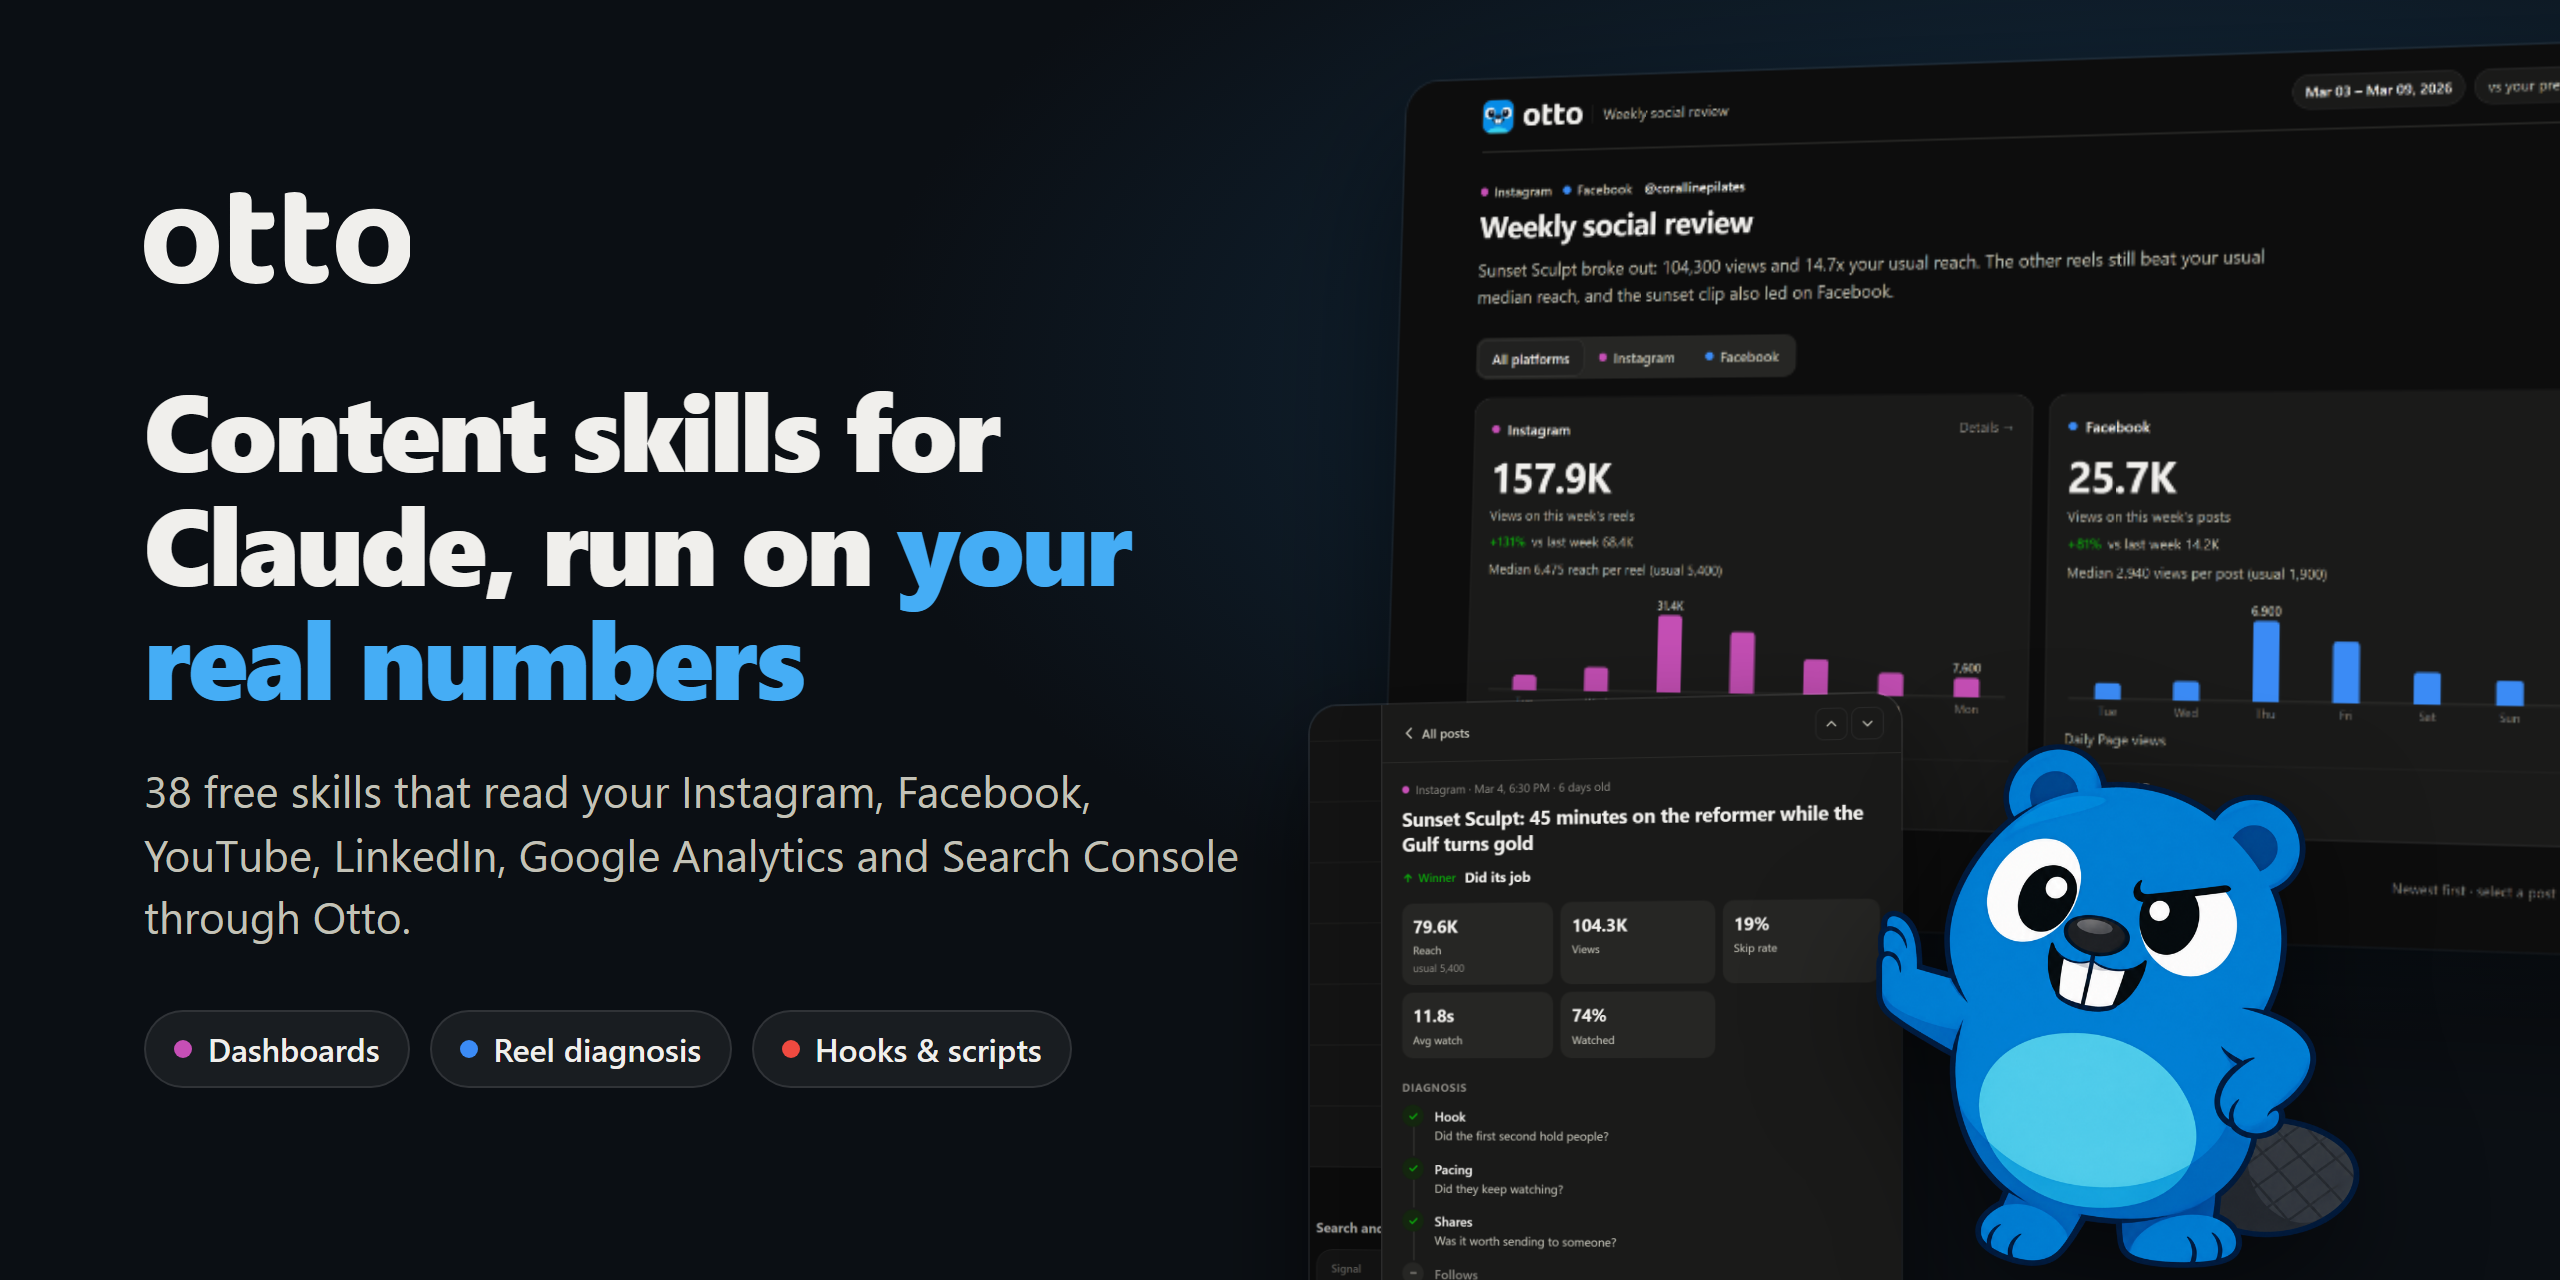
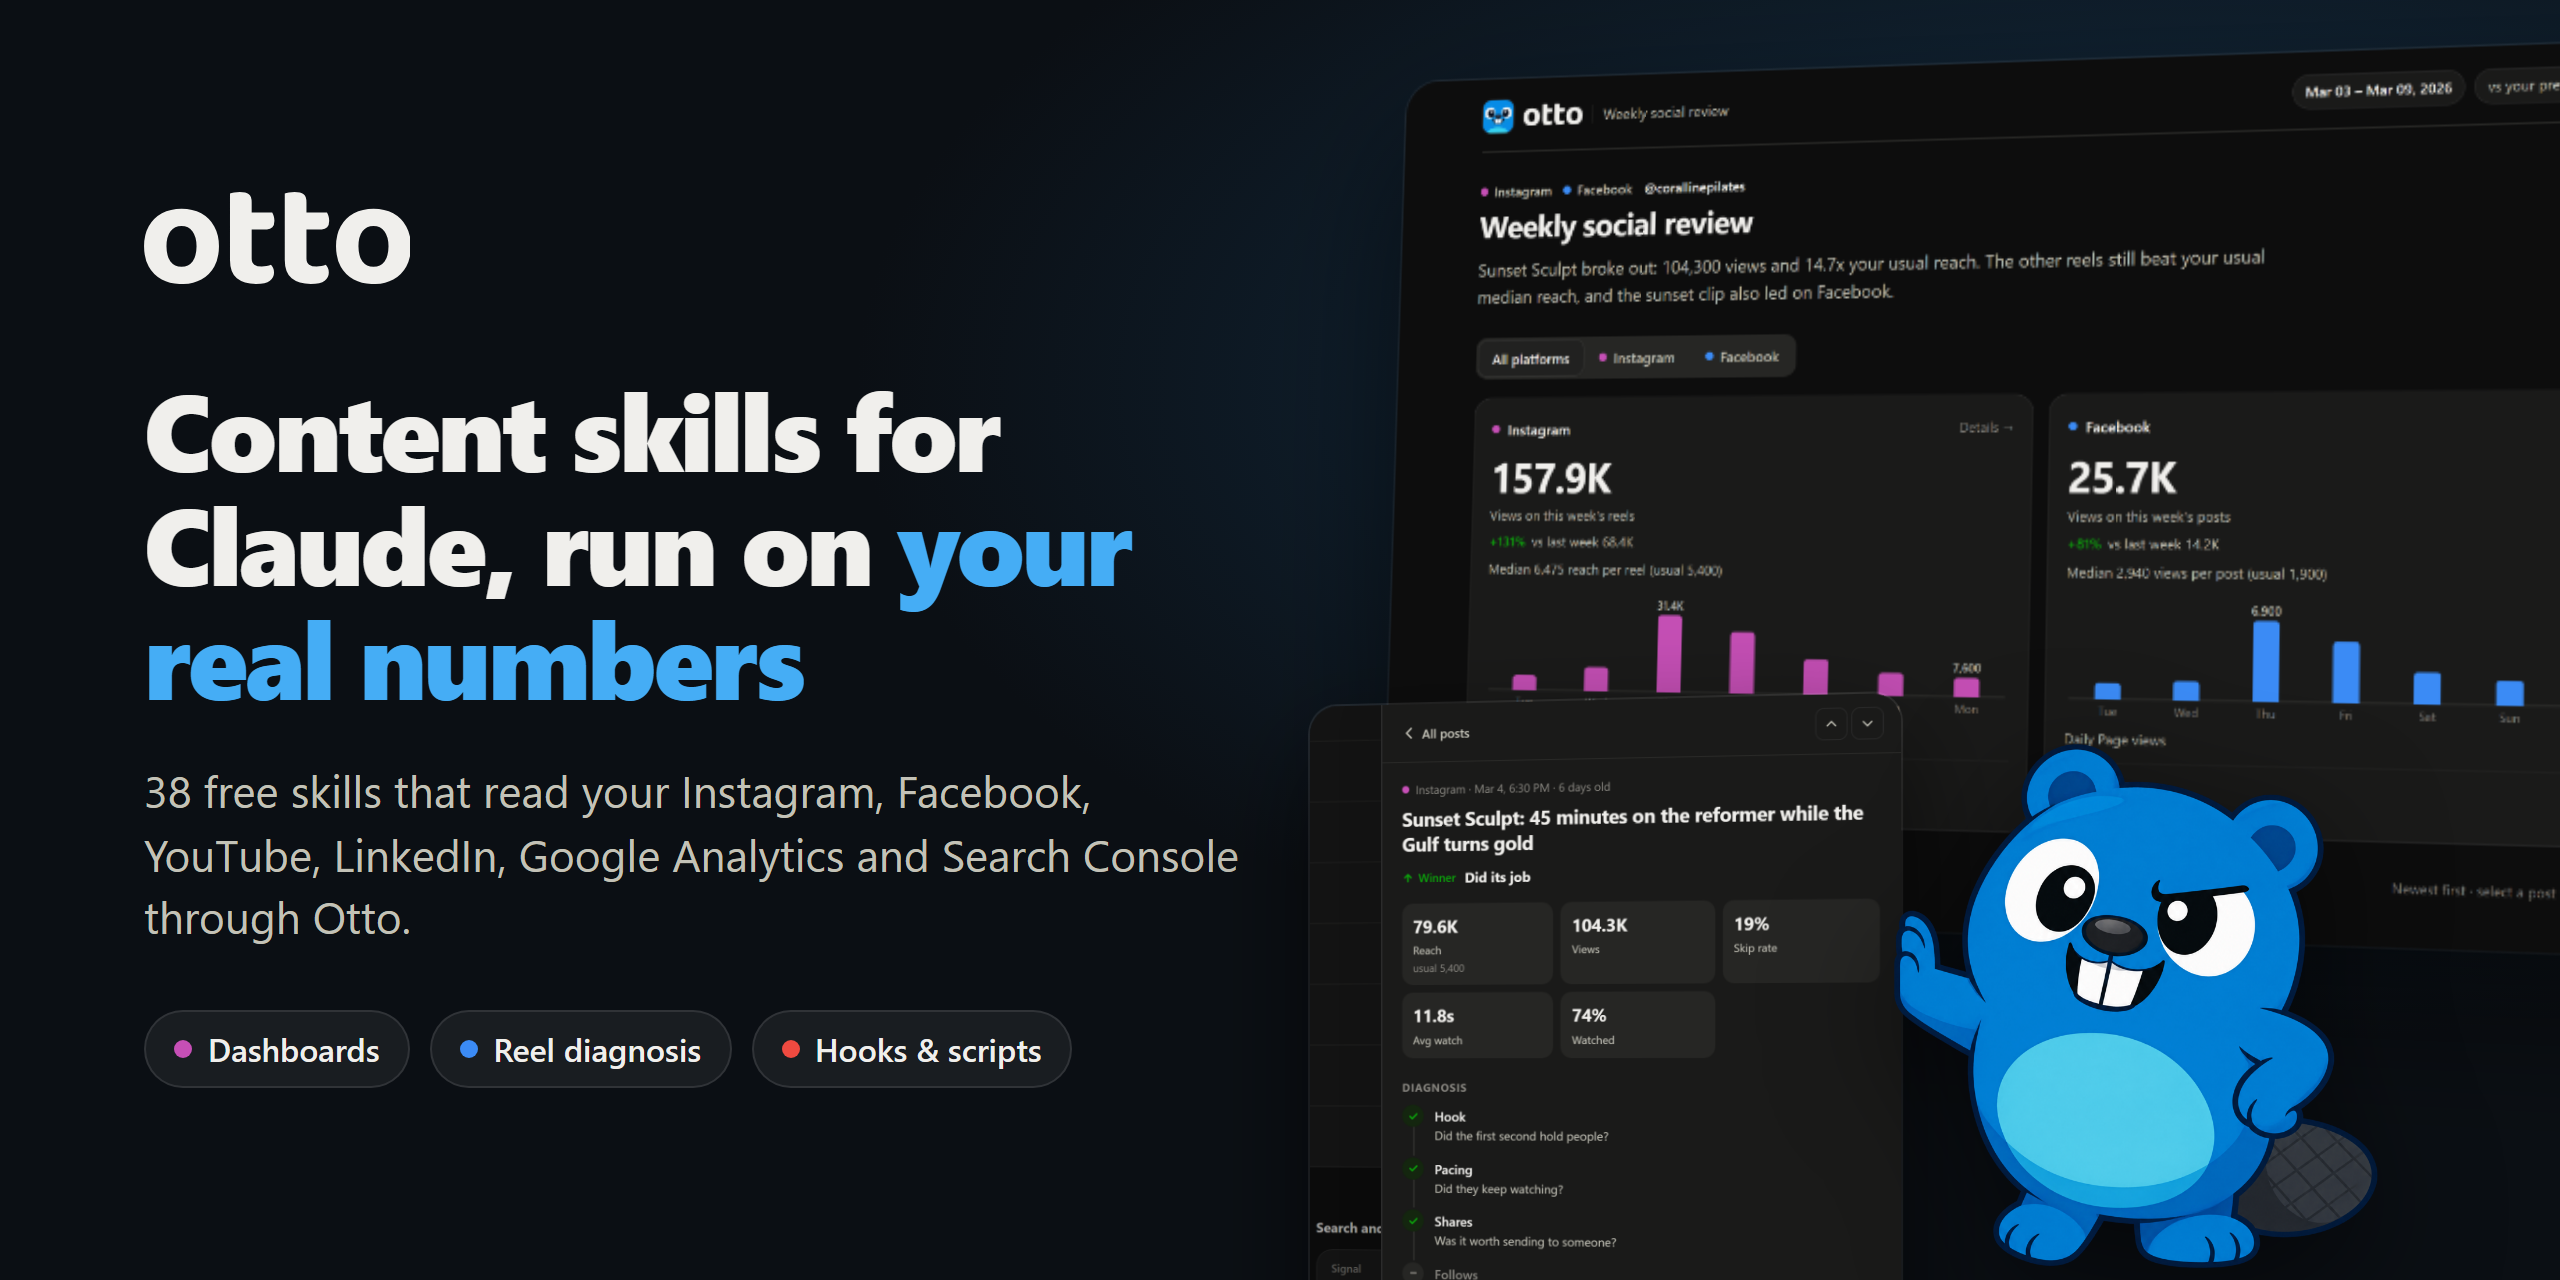
License in every skill, plain-language license note, mascot paw flush with panel
- license: MIT in each SKILL.md frontmatter, documented in AUTHORING
- README: what MIT allows in plain words; Otto name, logo and mascot excluded
- Banner: mascot moved so the paw's edge meets the diagnosis panel's edge

Changed region(s): [[0.7188, 0.5625, 0.9375, 1.0]]

diff --git a/templates/banner.src.html b/templates/banner.src.html
@@ -19,7 +19,7 @@
   .shot2{position:absolute;right:330px;top:350px;width:300px;border-radius:14px;overflow:hidden;box-shadow:0 24px 60px rgba(0,0,0,.6),0 0 0 1px rgba(255,255,255,.1);transform:perspective(1400px) rotateY(-10deg)}
   .shot2 img{width:100%;display:block}
   /* Otto leans on the diagnosis panel: paw on its right edge, feet near the bottom */
-  .mascot{position:absolute;left:938px;bottom:6px;height:262px;filter:drop-shadow(0 18px 30px rgba(0,0,0,.5))}
+  .mascot{position:absolute;left:947px;bottom:6px;height:262px;filter:drop-shadow(0 18px 30px rgba(0,0,0,.5))}
 </style></head>
 <body>
   <div class="l">

diff --git a/skills/campaign-plan/SKILL.md b/skills/campaign-plan/SKILL.md
@@ -1,6 +1,7 @@
 ---
 name: campaign-plan
 description: Write a one-page, decision-ready campaign brief (goal, audience, offer, message, channels, organic plan, paid plan, measurement) with targets set from your own numbers pulled through the Otto MCP: organic medians on Instagram, Facebook and LinkedIn, GA4 conversions, and Meta ads history (CPM, CTR, CPC, cost per result) if connected. Always produces the plan; builds paused Meta campaigns in Otto only if your connection has ads write tools and you approve, otherwise gives step-by-step Ads Manager instructions. Use when asked to "brief this launch", "plan a campaign", "make a social brief", "paid social brief", "what should this promotion say", or "how much should we spend on this".
+license: MIT
 ---
 
 # Campaign brief

diff --git a/skills/search-and-social/SKILL.md b/skills/search-and-social/SKILL.md
@@ -1,6 +1,7 @@
 ---
 name: search-and-social
 description: Connect what people search with what you post. Uses Search Console queries and pages, Google Business Profile search keywords, YouTube search terms and GA4 social traffic through Otto to find topics people search that your social content hasn't covered, the exact words to put in captions, titles and alt text, and which platforms and pages actually send visitors to your site. Use when asked "what are people searching for", "which keywords should my captions use", "does social send anyone to my site", "make my posts findable on Google", or "turn my search data into content".
+license: MIT
 ---
 
 # Search and social

diff --git a/skills/comment-to-lead/SKILL.md b/skills/comment-to-lead/SKILL.md
@@ -1,6 +1,7 @@
 ---
 name: comment-to-lead
 description: Read the comments on your recent Instagram, Facebook and LinkedIn posts through the Otto MCP, sort them (keyword requests, questions, support, spam), draft public replies, send approved replies through Otto when your connection has reply tools, and write a ManyChat-ready DM flow (keyword triggers, first DM, follow-ups) for an official DM tool, since Otto doesn't send DMs. Use when asked "check my comments", "reply to the comments", "who commented the keyword", "draft the DMs", "set up a comment-to-DM flow", or every day a "comment X and I'll send it" post is live.
+license: MIT
 ---
 
 # Comment to lead

diff --git a/skills/brand-brain/SKILL.md b/skills/brand-brain/SKILL.md
@@ -1,6 +1,7 @@
 ---
 name: brand-brain
 description: Build and keep a plain `brand/` folder (settings, voice, audience, offer, facts, winners) that every Otto content skill reads, seeded from your real Instagram numbers, comments and website copy pulled through the Otto MCP, and updated at the end of each session. Works with a folder (Claude Code, Cowork, desktop) or without one (claude.ai, ChatGPT) via downloadable files and a short brand card. Use when someone says "set up my brand", "learn my business", "remember this", "wrap up", "save what we learned", or before the first time they use a creation skill.
+license: MIT
 ---
 
 # Brand brain

diff --git a/skills/reel-breakdown/SKILL.md b/skills/reel-breakdown/SKILL.md
@@ -1,6 +1,7 @@
 ---
 name: reel-breakdown
 description: Watch a reel frame by frame and read its words, then break down the hook (first 3 seconds), structure, pacing in cuts per 10 seconds, on-screen text, payoff and CTA, with what to steal and what not to. For your own reels it gets the video through the Otto MCP (or from the user) and pairs the breakdown with real skip rate and watch time. Use when someone says "break down this reel", "analyze this video", "why does this reel work", "study this creator's reel", "map out how this video is built", or "watch my reel and tell me what happens".
+license: MIT
 ---
 
 # Reel breakdown

diff --git a/skills/creator-collab/SKILL.md b/skills/creator-collab/SKILL.md
@@ -1,6 +1,7 @@
 ---
 name: creator-collab
 description: Plan a creator, influencer or UGC collaboration end to end, as drafts only (you send every message yourself): decide if a creator fits using evidence from what they post, write the first message, write the brief they film from, cover usage rights and disclosure, and measure the result with your own Otto data (UTM links, GA4, Instagram insights on the collab post). Use when asked "is this creator a good fit for us", "draft my first message to a creator", "pitch a collab", "UGC brief", "brief my videographer", or "did the collab work".
+license: MIT
 ---
 
 # Creator collab

diff --git a/skills/content-engine/SKILL.md b/skills/content-engine/SKILL.md
@@ -1,6 +1,7 @@
 ---
 name: content-engine
 description: One command that runs the whole content pipeline in order, from your real Otto data to a planned and approved reel that gets posted (through Otto scheduling, a posting queue or by hand, depending on your connection), with a comment-to-lead loop and a measurement date, by calling the other skills in this pack. Stops for your approval at each decision. Use when asked to "run the content engine", "do the whole thing", "make me a reel from start to finish", "set up my content system", or "plan and make this week's reel".
+license: MIT
 ---
 
 # Content engine

diff --git a/skills/hook-patterns/SKILL.md b/skills/hook-patterns/SKILL.md
@@ -1,6 +1,7 @@
 ---
 name: hook-patterns
 description: Mine the hooks from your own posts (first caption line or first spoken line), rank them on the numbers Otto pulls from Instagram, Facebook, LinkedIn and YouTube (skip rate, watch time, shares per 1,000 reach), sort them into patterns, and remix the winners into new hooks that keep the structure and change the words. Optionally takes a CSV of other hooks. Use when asked to "mine my hooks", "which openings work for me", "remix my best hooks", "hook variations from what's working", or "give me hooks based on my data".
+license: MIT
 ---
 
 # Hook mining

diff --git a/skills/topic-finder/SKILL.md b/skills/topic-finder/SKILL.md
@@ -1,6 +1,7 @@
 ---
 name: topic-finder
 description: Research what to make next by combining four kinds of evidence through the Otto MCP (what people search for in Google, what gets watched on YouTube including your own channel, what people complain about online, and your own breakout posts) into a ranked topic list where every topic shows its proof. Use when someone says "research my niche", "what topics would do well for me", "find topics that will work", "what's working in my industry", "give me content ideas with data", or "what are people searching for".
+license: MIT
 ---
 
 # Content research

diff --git a/skills/comment-insights/SKILL.md b/skills/comment-insights/SKILL.md
@@ -1,6 +1,7 @@
 ---
 name: comment-insights
 description: Pull the comments from the sources you choose (Instagram, Facebook, LinkedIn, Google reviews, Reddit; only connected ones) through the Otto MCP, cluster them into questions, objections and requests in your audience's own words, and turn the clusters into content ideas and FAQ answers. Use when someone says "what are people asking in my comments", "dig through my comments", "what do people want from me", "what objections do people have", "turn comments into content", or "build an FAQ from my comments".
+license: MIT
 ---
 
 # Comment mining

diff --git a/skills/trend-radar/SKILL.md b/skills/trend-radar/SKILL.md
@@ -1,6 +1,7 @@
 ---
 name: trend-radar
 description: Find rising topics for your business from real signals Otto can pull (Search Console queries compared across two windows, YouTube traffic and top videos, your own breakout posts, recent comments, Reddit when reachable) plus peer accounts you name, and give each trend a take / adapt / skip verdict with the reason it fits or doesn't. Use when asked "what's trending for businesses like mine", "is this trend worth jumping on", "what are people asking about right now", or "find me something timely to post".
+license: MIT
 ---
 
 # Trend spotter
